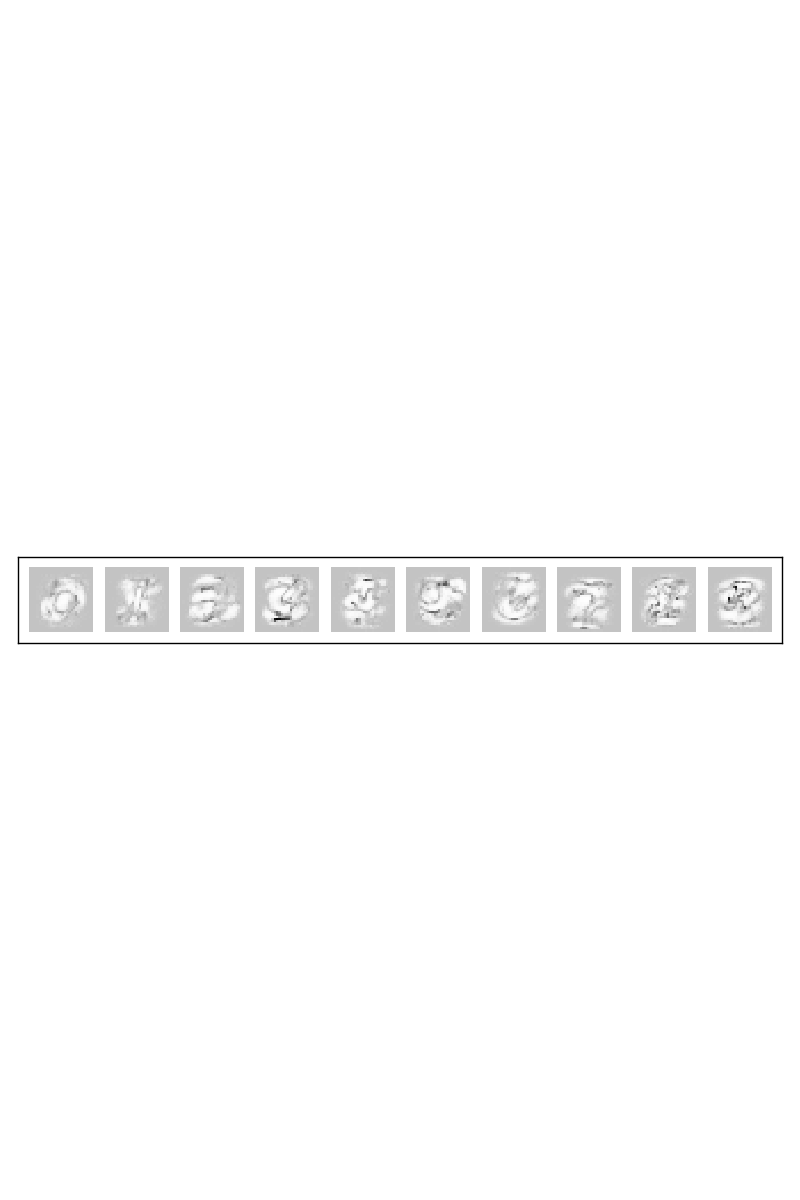
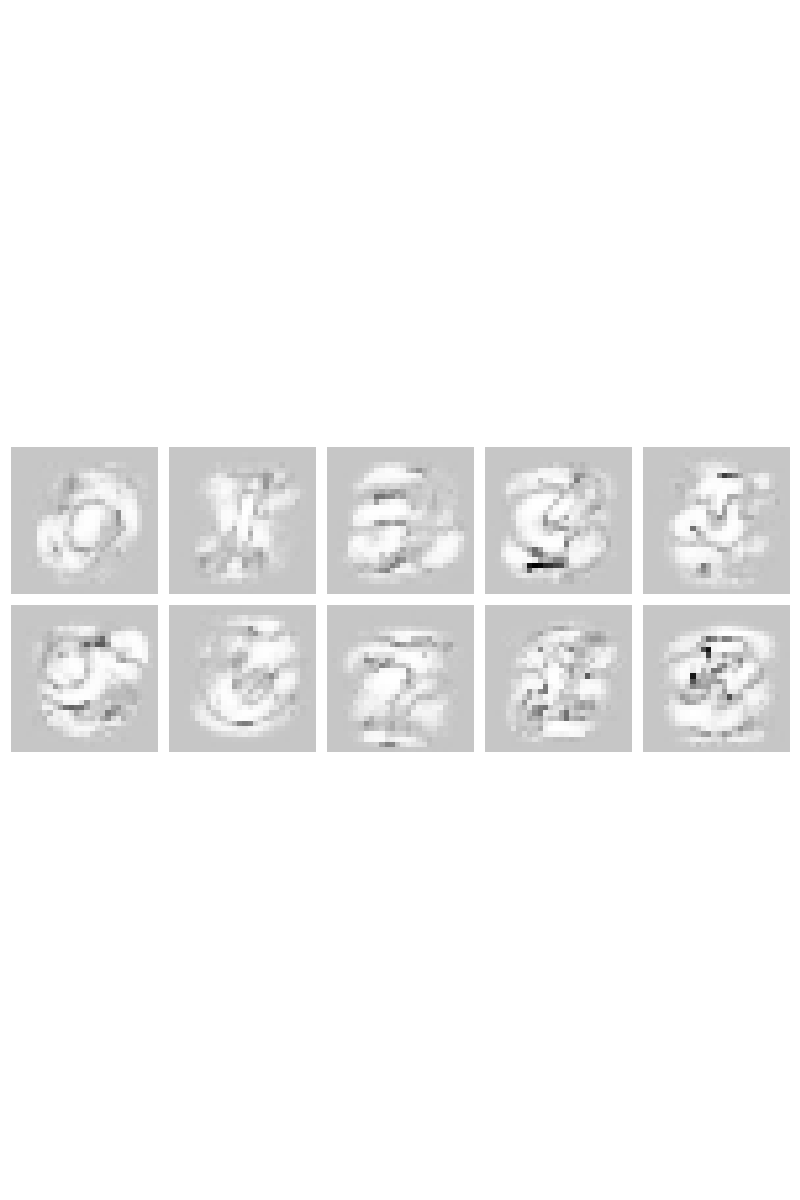
Made logistic regression ARD plot nicer

Changed region(s): [[0.0, 0.37, 1.0, 0.6475]]

diff --git a/experiments/Jan_21_nn_ard/4/experiment.py b/experiments/Jan_21_nn_ard/4/experiment.py
@@ -17,17 +17,17 @@ log_param_scale = -4
 log_L2_reg_scale = np.log(0.01)
 
 # ----- Discrete training hyper-parameters -----
-layer_sizes = [784, 20, 10]
+layer_sizes = [784, 10]
 batch_size = 200
 N_iters = 50
 
 # ----- Variables for meta-optimization -----
 N_train_data = 10000
 N_val_data = 10000
-N_test_data = 10000
+N_test_data = 1000
 meta_stepsize = 1000
 N_meta_iter = 50
-meta_L2_reg = 0.01
+meta_L2_reg = 0.1
 
 one_hot = lambda x, K : np.array(x[:,None] == np.arange(K)[None, :], dtype=int)
 
@@ -37,7 +37,7 @@ def run():
 
     batch_idxs = BatchList(N_train_data, batch_size)
     parser, _, loss_fun, frac_err = make_nn_funs(layer_sizes)
-    N_weights = parser.N
+    N_weights = len(parser.vect)
 
     hyperparser = WeightsParser()
     hyperparser.add_weights('log_L2_reg', (N_weights,))
@@ -88,7 +88,7 @@ def plot():
 
     fig = plt.figure(0)
     fig.clf()
-    N_figs = 2
+    N_figs = 4
     ax = fig.add_subplot(N_figs, 1, 1)
     ax.set_title("Learning Curves")
     subsample = np.ceil(float(len(all_learning_curves)) / 50)
@@ -110,6 +110,18 @@ def plot():
     ax.set_xlabel("Meta Iteration Number")
     ax.legend(loc=2)
 
+    ax = fig.add_subplot(N_figs, 1, 3)
+    ax.set_title("Weights")
+    images = all_weights[-1].T
+    plot_mnist_images(images, ax, ims_per_row=10)
+    fig.set_size_inches((8,12))
+
+    ax = fig.add_subplot(N_figs, 1, 4)
+    ax.set_title("Per-weight L2 penalty")
+    images = all_L2[-1].T
+    plot_mnist_images(images, ax, ims_per_row=10)
+    fig.set_size_inches((8,12))
+
     plt.savefig("fig.png")
 
 
@@ -118,6 +130,7 @@ def plot():
     N_figs = 1
 
     ax = fig.add_subplot(N_figs, 1, 1)
+    #ax.set_title("Weights")
     images = all_weights[-1].T
     plot_mnist_images(images, ax, ims_per_row=10)
     fig.set_size_inches((8,12))
@@ -126,18 +139,17 @@ def plot():
     plt.savefig("weights.png")
     plt.savefig("weights.pdf", pad_inches=0.05, bbox_inches='tight')
 
+
+    # Fake data
     fig = plt.figure(0)
-    fig.clf()
-    N_figs = 1
+    ax = plt.Axes(fig, [0., 0., 1., 1.])
+    ax.set_axis_off()
+    fig.add_axes(ax)
 
-    ax = fig.add_subplot(N_figs, 1, 1)
     images = all_L2[-1].T
-    plot_mnist_images(images, ax, ims_per_row=10)
-    fig.set_size_inches((8,12))
-
-    fig.tight_layout()
+    plot_mnist_images(images, ax, ims_per_row=5, padding=2)
     plt.savefig("penalties.png")
-    plt.savefig("penalties.pdf", pad_inches=0.05, bbox_inches='tight')
+    plt.savefig("penalties.pdf", bbox_inches='tight')
 
 
 if __name__ == '__main__':

diff --git a/experiments/Jan_21_nn_ard/2/experiment.py b/experiments/Jan_21_nn_ard/2/experiment.py
@@ -137,19 +137,17 @@ def plot():
     plt.savefig("weights.png")
     plt.savefig("weights.pdf", pad_inches=0.05, bbox_inches='tight')
 
+
+    # Fake data
     fig = plt.figure(0)
-    fig.clf()
-    N_figs = 1
+    ax = plt.Axes(fig, [0., 0., 1., 1.])
+    ax.set_axis_off()
+    fig.add_axes(ax)
 
-    ax = fig.add_subplot(N_figs, 1, 1)
-    #ax.set_title("Per-weight L2 penalty")
     images = all_L2[-1].T
-    plot_mnist_images(images, ax, ims_per_row=10)
-    fig.set_size_inches((8,12))
-
-    fig.tight_layout()
+    plot_mnist_images(images, ax, ims_per_row=5, padding=2)
     plt.savefig("penalties.png")
-    plt.savefig("penalties.pdf", pad_inches=0.05, bbox_inches='tight')
+    plt.savefig("penalties.pdf", bbox_inches='tight')
 
 
 if __name__ == '__main__':

diff --git a/paper/hypergrad_paper.tex b/paper/hypergrad_paper.tex
@@ -378,7 +378,7 @@ This
 
 \begin{figure}[h!]
 \begin{center}
-\includegraphics[width=\columnwidth]{../experiments/Jan_21_nn_ard/2/weights.pdf}
+%\includegraphics[width=\columnwidth]{../experiments/Jan_21_nn_ard/2/weights.pdf}
 \includegraphics[width=\columnwidth]{../experiments/Jan_21_nn_ard/2/penalties.pdf}
 \caption{\emph{Top:} Filters learned to classify MNIST in logistic regression.
 \emph{Bottom:} L2 regularization hyperparameters for each weight..}
